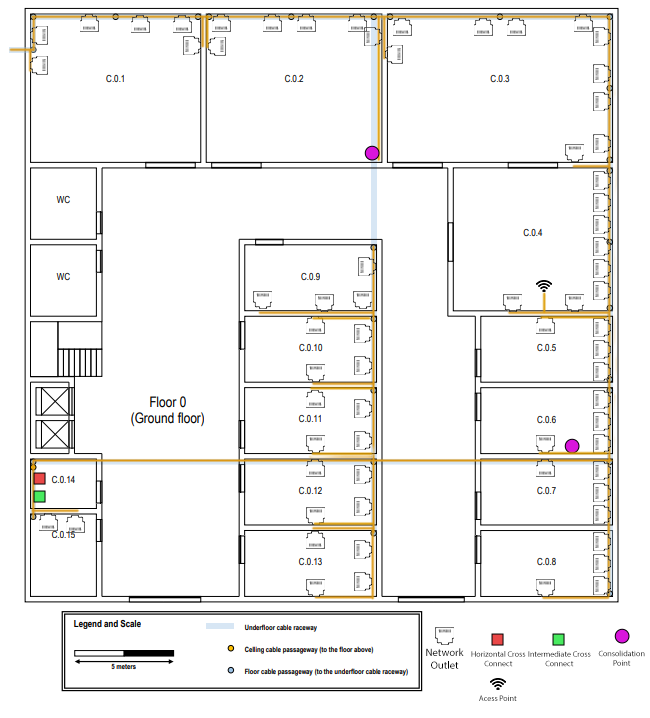
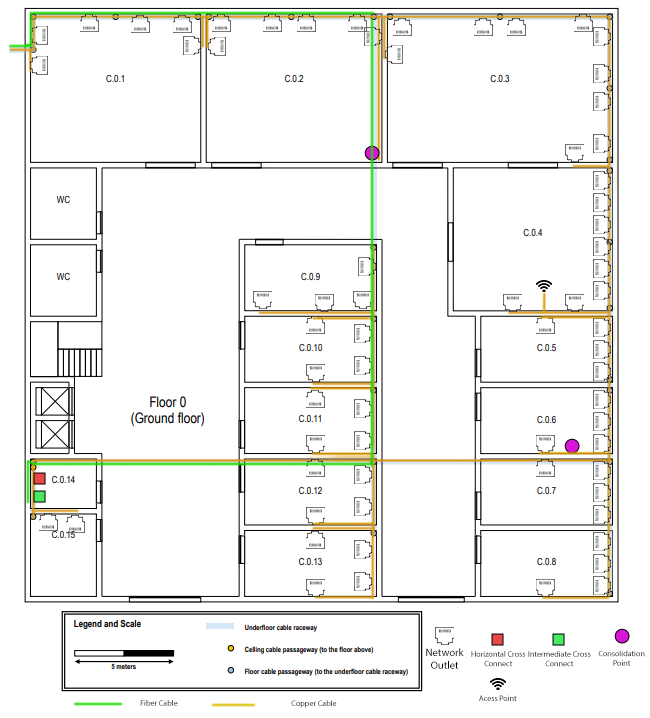
fiber + some changes.

diff --git a/doc/sprint1/BuildingC_1201551/README.md b/doc/sprint1/BuildingC_1201551/README.md
@@ -321,9 +321,11 @@ Total: 1032,32 + 51,62 (margem de segurança de 5%) = 1083,94 m
 
 | Divisão | Comprimento total aproximado (m) |
 |--------:|:--------------------------------:|
-|  C.0.14 |              80,75               | //Desde a entrada até ao HC
+|  C.0.14 |              61,00               | 
 
-Total:80,75 m
+Intermediary Cross-Connect até ao Horizontal Cross-Connect: patch cord (1,25m)
+
+Total: 62,25 m
 
 * Patch panels
 
@@ -396,14 +398,9 @@ Para calcular o comprimento de fio de cobre necessário para o access point, foi
 Total: 1254,2 + 62,71 (margem de segurança de 5%) = 1316,91 m
 
 * Fibra ótica de modo único
-
-Intermediary Cross-Connect até ao Horizontal Cross-Connect: patch cord (cerca de 1 m)
 Conexão com o piso 0: 2,5 + 2,5 (altura do teto) = 5,00 m
-<!---
-TODO: CHECK IF THIS IS CORRECT
--->
 
-Total: 12,25 m
+Total: 5 m
 
 * Patch panels
 Existem 63 outlets no piso 1.
@@ -438,6 +435,6 @@ Total: 16U
 
 |            | Fio de cobre Cat6a (m) | Fio de fibra ótica modo único (m) | Outlets | Access Points | Patch Panels | Patch Cords | Switches |
 |------------|:----------------------:|:---------------------------------:|:-------:|:-------------:|:------------:|:-----------:|:--------:|
-| **Piso 0** |        1083,94         |               80,75               |   69    |       1       |      3       |     69      |    2     |
-| **Piso 1** |        1316,91         |                 x                 |   63    |       1       |      3       |     63      |    1     |
-| **Total**  |        2400,85         |               14,65               |   132   |       2       |      6       |     132     |    3     |
+| **Piso 0** |        1083,94         |               62,25               |   69    |       1       |      3       |     69      |    2     |
+| **Piso 1** |        1316,91         |                 5                 |   63    |       1       |      3       |     63      |    1     |
+| **Total**  |        2400,85         |               67,25               |   132   |       2       |      6       |     132     |    3     |
